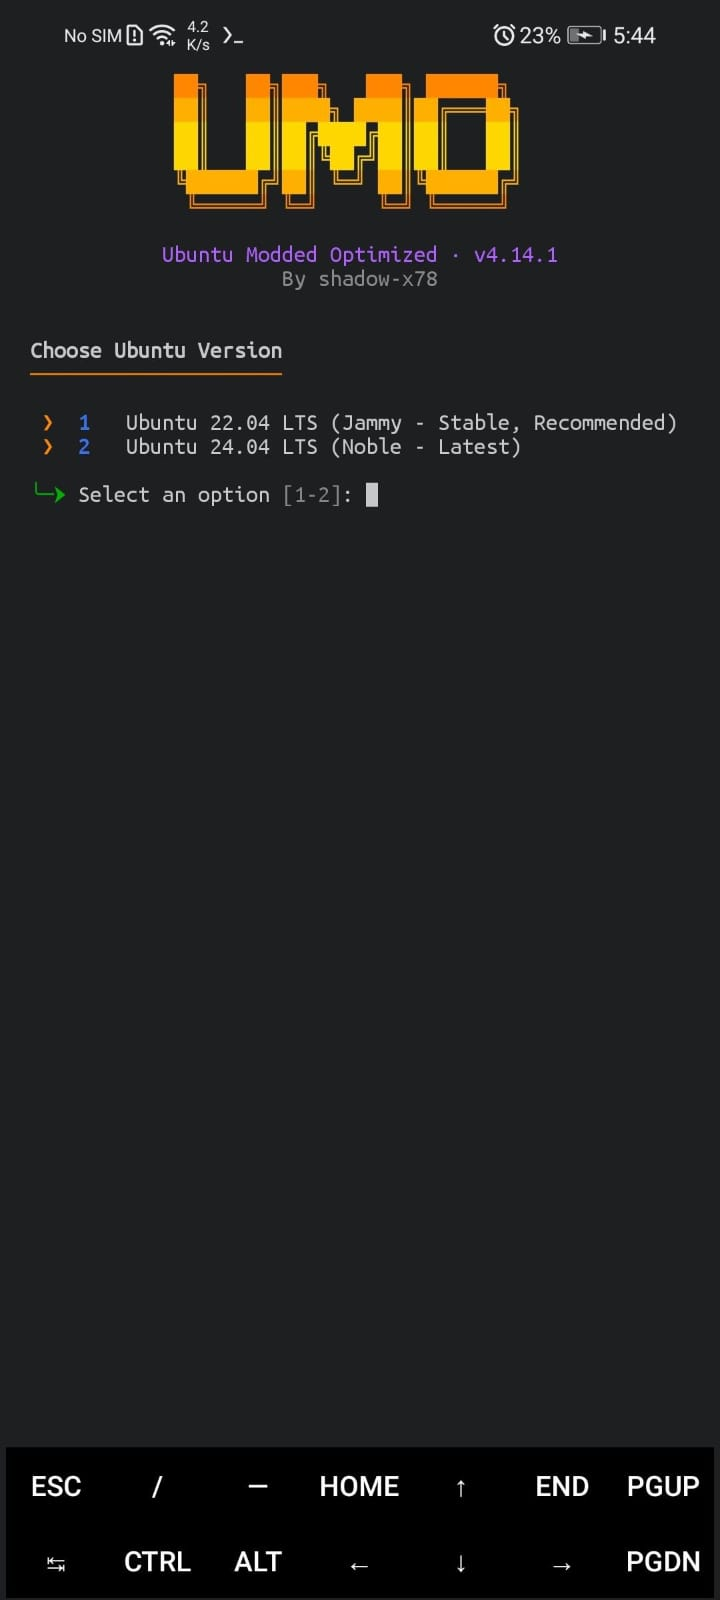
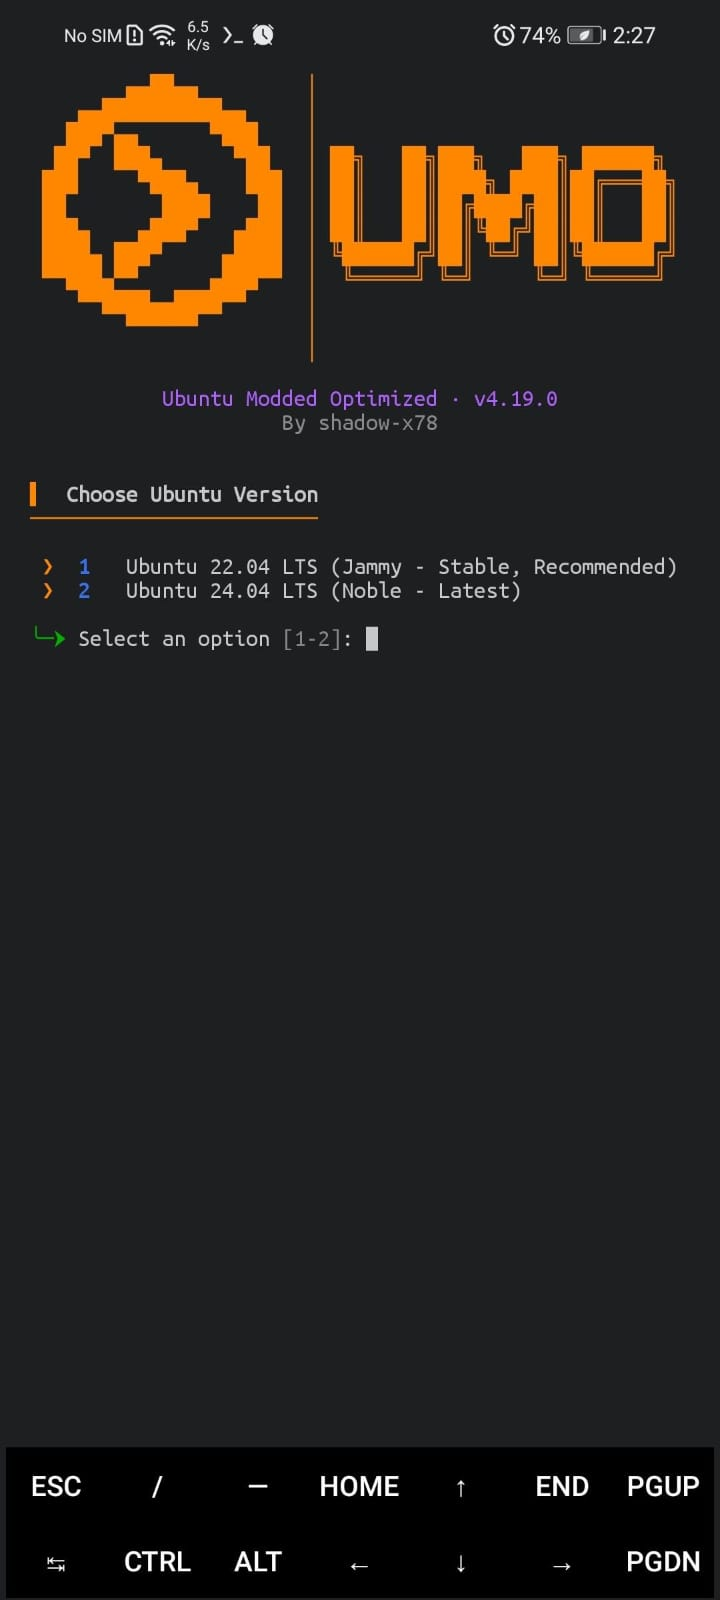
umo | v4.19.0 | docs: the screenshot gallery is the current v4.19 design - seven captures identified by OCR of their on-screen titles, named by content, and ordered by the installer flow. The set: six portrait phone screens (Choose Ubuntu Version, Choose Desktop Environment, Choose Theme Mode, Choos

diff --git a/CHANGELOG.md b/CHANGELOG.md
@@ -4,6 +4,10 @@ All notable changes to this project will be documented in this file.
 
 ## [v4.19.0] - 2026-08-30
 
+### 📸 Screenshots
+
+- **The gallery is the current v4.19 design, named by content and ordered by the installer flow:** seven fresh captures (six portrait phone screens and one landscape XFCE session) replace the v4.14-era four-shot set. Every capture was identified by OCR of its on-screen title (Choose Ubuntu Version, Choose Desktop Environment, Choose Theme Mode, Choose Application Set, Configuration Summary, Installation Complete, plus the desktop session) and named accordingly - `01_version_selection` through `07_desktop_session`, matching the exact sequence a user walks during install. Both READMEs document the new set in two grouped rows (the five installer steps, then the completion report beside the wide desktop capture), and every referenced file exists on disk - verified programmatically with zero orphan references.
+
 ### 🎨 Changed
 
 - **The installer banner is the same orange as every other UMO surface:** the installer's banner (through `lib/core-ansi.sh`) was the only site printed with a three-tone gradient (`UMO_GRAD_1/2/3`), so the rows carrying the mark, rule and wordmark rendered yellow-gold (color 220) and amber (214) instead of the UMO orange - visibly clashing with the flat `38;5;208` orange that `umo start/stop/cli` print. The banner loop now uses one color for all twelve rows (`UMO_COLOR_PRIMARY` = `38;5;208` in 256-color mode, `0;33` dim orange in 16-color mode - which also fixes the second yellow source: the 16-color fallback had `1;33` bright yellow), verified under a real PTY: every row carries exactly `38;5;208`. The dead `UMO_GRAD_*` definitions (zero remaining consumers) are removed, and the banner width constant is corrected from a stale 57 to the actual 55 columns.

diff --git a/README_AR.md b/README_AR.md
@@ -56,11 +56,21 @@
 <a id="screenshots"></a>
 ## 🖼 لقطات الشاشة
 
+**المثبِّت** (كل خطوة قائمة إرشادية):
+
 <p align="center">
-  <img src="assets/screenshots/01_version_selection.jpg" width="24%" alt="اختيار الإصدار">
-  <img src="assets/screenshots/02_desktop_selection.jpg" width="24%" alt="اختيار الواجهة">
-  <img src="assets/screenshots/03_apps_selection.jpg" width="24%" alt="اختيار التطبيقات">
-  <img src="assets/screenshots/04_configuration_summary.jpg" width="24%" alt="ملخص الإعدادات">
+  <img src="assets/screenshots/01_version_selection.jpg" width="30%" alt="اختيار الإصدار">
+  <img src="assets/screenshots/02_desktop_selection.jpg" width="30%" alt="اختيار الواجهة">
+  <img src="assets/screenshots/03_theme_selection.jpg" width="30%" alt="اختيار الثيم">
+  <img src="assets/screenshots/04_apps_selection.jpg" width="30%" alt="اختيار التطبيقات">
+  <img src="assets/screenshots/05_configuration_summary.jpg" width="30%" alt="ملخص الإعدادات">
+</p>
+
+**النتيجة** (شاشة الإكمال وجلسة XFCE):
+
+<p align="center">
+  <img src="assets/screenshots/06_installation_complete.jpg" width="30%" alt="اكتمال التثبيت">
+  <img src="assets/screenshots/07_desktop_session.jpg" width="62%" alt="جلسة سطح مكتب XFCE">
 </p>
 
 ---

diff --git a/README.md b/README.md
@@ -56,11 +56,21 @@ Full Ubuntu on your Android device - one command, zero hassle
 <a id="screenshots"></a>
 ## 🖼 Screenshots
 
+**The installer** (every step is a guided menu):
+
 <p align="center">
-  <img src="assets/screenshots/01_version_selection.jpg" width="24%" alt="Version Selection">
-  <img src="assets/screenshots/02_desktop_selection.jpg" width="24%" alt="Desktop Selection">
-  <img src="assets/screenshots/03_apps_selection.jpg" width="24%" alt="Apps Selection">
-  <img src="assets/screenshots/04_configuration_summary.jpg" width="24%" alt="Configuration Summary">
+  <img src="assets/screenshots/01_version_selection.jpg" width="30%" alt="Version Selection">
+  <img src="assets/screenshots/02_desktop_selection.jpg" width="30%" alt="Desktop Selection">
+  <img src="assets/screenshots/03_theme_selection.jpg" width="30%" alt="Theme Selection">
+  <img src="assets/screenshots/04_apps_selection.jpg" width="30%" alt="Apps Selection">
+  <img src="assets/screenshots/05_configuration_summary.jpg" width="30%" alt="Configuration Summary">
+</p>
+
+**The result** (summary screen, completion report, and the XFCE session):
+
+<p align="center">
+  <img src="assets/screenshots/06_installation_complete.jpg" width="30%" alt="Installation Complete">
+  <img src="assets/screenshots/07_desktop_session.jpg" width="62%" alt="XFCE Desktop Session">
 </p>
 
 ---
